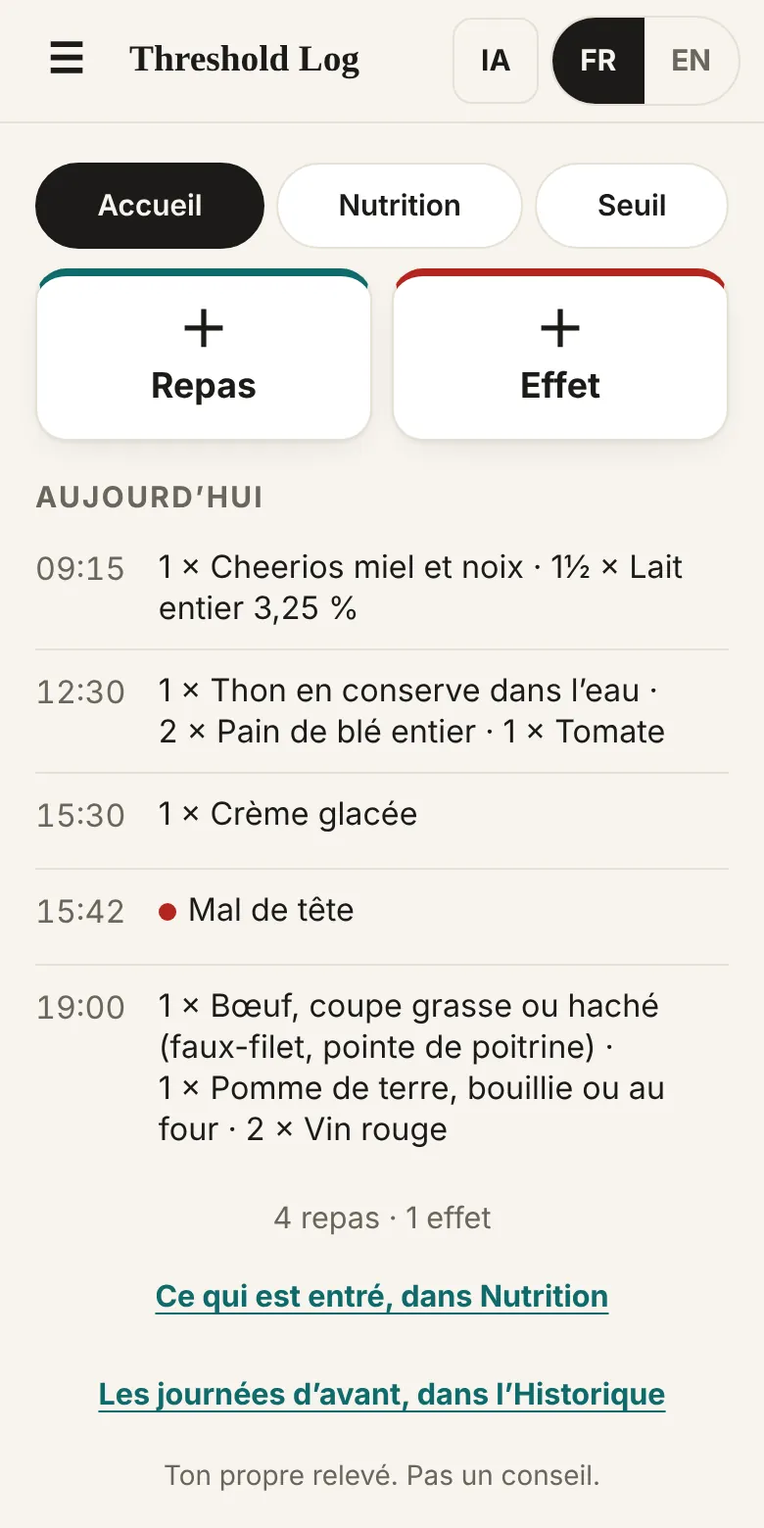
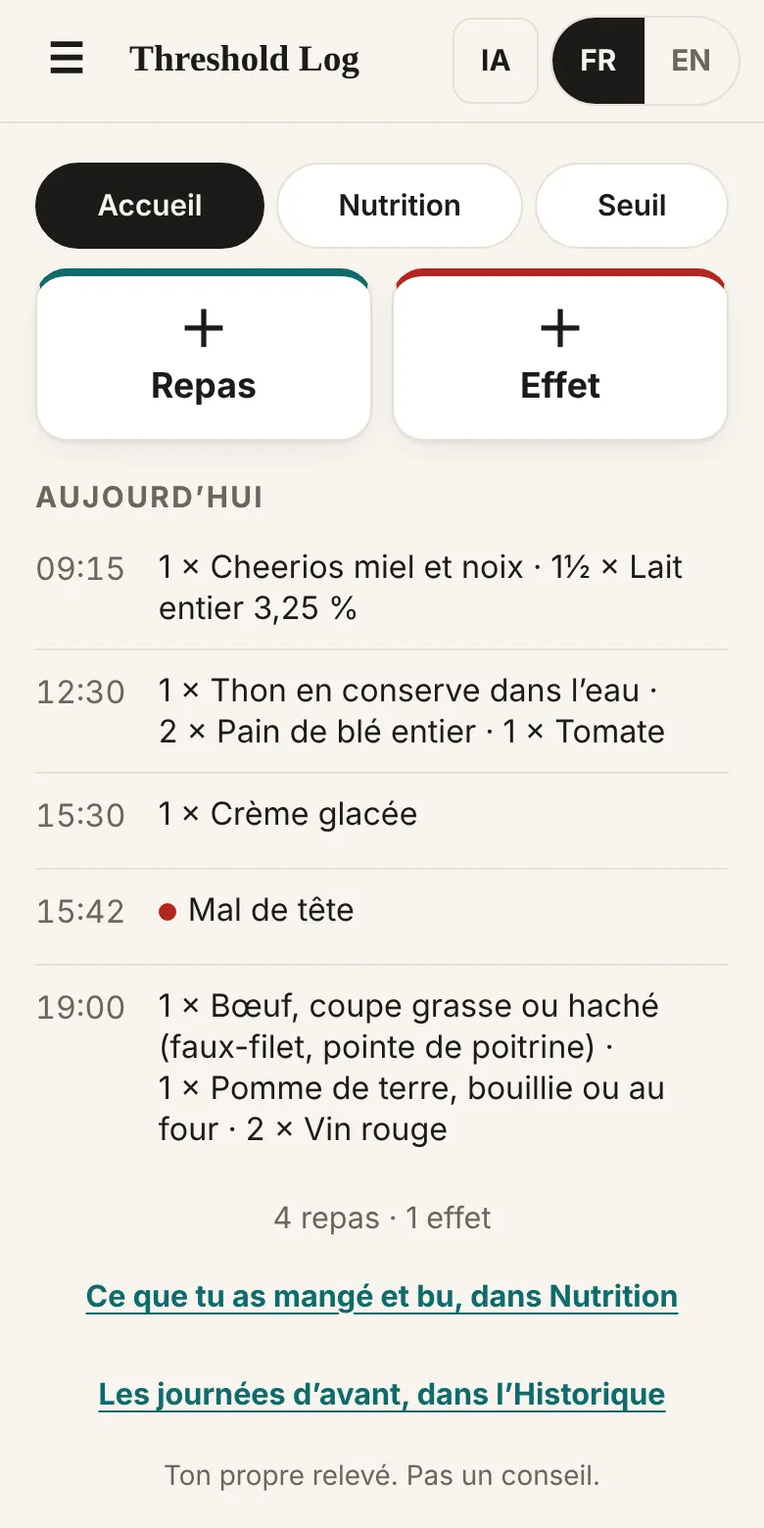
Threshold Log 0.3.6: French wording chosen by Tobie
- Bringing in the Food Trial Log's lists is « importer »: « Importe ta
  liste… », the button « Importer », « Importé le… », « Retirer ce qui
  a été importé ». The app's page says the same.
- A day the app counts is « une journée » wherever it is counted
  (« 3 journées laissées de côté », « noté 11 journées »), and what
  goes with it agrees. « Les 7 derniers jours » stays: that is the
  calendar.
- Home: « Hier : des repas notés, aucun effet négatif noté. » and
  « Ce que tu as mangé et bu, dans Nutrition ».
- « Des données seulement. » in place of « Des comptes seulement. »
- « pour l’instant » in place of a trailing « encore »: « Aucun repas
  noté pour l’instant. », « Rien de compté pour l’instant. »
- Front page, Sollum: « la chaîne d’événements qui a mené à chacun ».

« lit », « Pas un conseil » and « avant d’être rendu trop loin » stay.
No English changes. A check keeps each of these in place.

Claude-Session: https://claude.ai/code/session_0165oQGZXNu1ULEJPAkewgjN

Changed region(s): [[0.0923, 0.8308, 0.8923, 0.8615]]

diff --git a/threshold/app/index.html b/threshold/app/index.html
@@ -681,7 +681,7 @@ return {H,WIN,WINS,STEPS,BUCKETS,COMPS,FAMS,TAGS,line,table,together,waiting,SLI
 if(typeof module!=='undefined') module.exports=TLE;
 /* ENGINE:END */
 /* ===================== APP: the screens. Data in, data out: the app reports what was entered and never interprets it. ===================== */
-const VER='0.3.5', CONSENT=1, KEY='v3k.threshold.v1', GUTKEYS=['v3k.gut.v1','v3k.gut.fr.v1'];   /* the Food Trial Log keeps its English and its French copy apart */
+const VER='0.3.6', CONSENT=1, KEY='v3k.threshold.v1', GUTKEYS=['v3k.gut.v1','v3k.gut.fr.v1'];   /* the Food Trial Log keeps its English and its French copy apart */
 const E=TLE, H=36e5;
 const FRAMED=(()=>{ try{ return window.self!==window.top; }catch(e){ return true; } })();
 const STANDALONE=(()=>{ try{ return !!(navigator.standalone||matchMedia('(display-mode: standalone)').matches); }catch(e){ return false; } })();
@@ -821,12 +821,12 @@ function vHome(){ const I=IX(), T=today(), Y=kAdd(T,-1), d=I.D[T], dy=I.D[Y], ha
   const evs=S.ev.filter(e=>(e.k==='none'?e.d:E.dayKey(e.t,S.roll))===T), nm=evs.filter(e=>e.k==='meal').length, nf=evs.filter(e=>e.k==='fx').length, older=S.ev.length>evs.length;
   return `<div class="mainbtns"><button type="button" class="mb meal" data-act="meal"><span class="mi" aria-hidden="true">＋</span>${L('Meal','Repas')}</button><button type="button" class="mb fx" data-act="fx"><span class="mi" aria-hidden="true">＋</span>${L('Effect','Effet')}</button></div>
   ${hasFx?'':`<button type="button" class="lnk none" data-act="none" data-v="${T}" aria-pressed="${noneOn}">${noneOn?'✓ '+L('No effects today','Aucun effet aujourd’hui'):L('No effects today','Aucun effet aujourd’hui')}</button>`}
-  ${dy&&dy.meals.length&&!dy.closed?`<p class="small muted" style="text-align:center;margin:0 0 8px">${L('Yesterday has meals and no effect.','Hier a des repas et aucun effet.')} <button type="button" class="lnk" data-act="none" data-v="${Y}">${L('No effects yesterday','Aucun effet hier')}</button></p>`:''}
+  ${dy&&dy.meals.length&&!dy.closed?`<p class="small muted" style="text-align:center;margin:0 0 8px">${L('Yesterday has meals and no effect.','Hier : des repas notés, aucun effet négatif noté.')} <button type="button" class="lnk" data-act="none" data-v="${Y}">${L('No effects yesterday','Aucun effet hier')}</button></p>`:''}
   ${S.ev.length?'':`<div class="card soft"><p class="small" style="margin:0">${L('<b>How it works.</b> Report a meal when you eat. Report a negative effect when you have one. On a day with none, tap “No effects today”. A day with a meal and one of those is complete, and the lists count complete days.','<b>Comment ça marche.</b> Note un repas quand tu manges. Note un effet négatif quand tu en as un. Une journée sans effet, appuie sur «\u00a0Aucun effet aujourd’hui\u00a0». Une journée avec un repas et l’un des deux est complète, et les listes comptent les journées complètes.')}</p></div>`}
   <div class="eyebrow" style="margin:18px 0 0">${L('Today','Aujourd’hui')}</div>
   ${evs.length?`<ul class="tl" id="todayList">${evs.map(entryRow).join('')}</ul>`:`<p class="small muted" id="todayNone" style="margin:8px 0 0">${L('Nothing reported today yet.','Rien de noté aujourd’hui pour l’instant.')}</p>`}
   ${nm||nf?`<p class="small muted" id="todayCount" style="margin:14px 0 0;text-align:center">${L(`${nm} meal${nm===1?'':'s'} · ${nf} effect${nf===1?'':'s'}`,`${nm} repas · ${nf} effet${nf>1?'s':''}`)}</p>`:''}
-  ${nm?`<p style="margin:6px 0 0;text-align:center"><button type="button" class="lnk" data-act="tonut">${L('What went in, under Nutrition','Ce qui est entré, dans Nutrition')}</button></p>`:''}
+  ${nm?`<p style="margin:6px 0 0;text-align:center"><button type="button" class="lnk" data-act="tonut">${L('What went in, under Nutrition','Ce que tu as mangé et bu, dans Nutrition')}</button></p>`:''}
   ${older?`<p style="margin:6px 0 0;text-align:center"><button type="button" class="lnk" data-act="hist">${L('Earlier days, in History','Les journées d’avant, dans l’Historique')}</button></p>`:''}
   <p class="mine">${MINE()}</p>`; }
 
@@ -849,7 +849,7 @@ function pickKeys(){ if(V.q.trim()) return searchFoods(V.q);
 function mealRow(k){ const f=food(k), q=V.items[k]||0, sv=fserv(f), nm=`<div class="nm">${esc(fname(f))}${sv?`<small>${esc(sv)}</small>`:''}</div>`;
   return V.mode==='list'?`<div class="st${q?' on':''}" style="grid-template-columns:1fr auto">${nm}<button type="button" class="btn ${q?'':'ghost '}sm" data-act="mq" data-k="${esc(k)}" data-v="${q?-1:1}" aria-pressed="${!!q}">${q?'✓ '+L('On my list','Sur ma liste'):L('Add','Ajouter')}</button></div>`
     :`<div class="st${q?' on':''}">${nm}<button type="button" class="stp" data-act="mq" data-k="${esc(k)}" data-v="-0.5" aria-label="${L('Less','Moins')}: ${esc(fname(f))}" ${q?'':'disabled'}>−</button><span class="val" aria-live="polite">${q?qtxt(q):''}</span><button type="button" class="stp plus" data-act="mq" data-k="${esc(k)}" data-v="0.5" aria-label="${L('More','Plus')}: ${esc(fname(f))}">+</button></div>`; }
-function mealRows(){ return pickKeys().map(mealRow).join('')||`<p class="small muted">${V.q.trim()?L('No food by that name. You can add one from its label: Menu → Add a food from its label.','Aucun aliment à ce nom. Tu peux en ajouter un selon son étiquette\u00a0: Menu → Ajouter un aliment selon son étiquette.'):V.grp==='mine'?L('Your list is empty. Pick foods from the groups, or bring your list from the Food Trial Log (Nutrition tab).','Ta liste est vide. Choisis des aliments dans les groupes, ou amène ta liste du Food Trial Log (onglet Nutrition).'):L('Nothing here yet.','Rien ici pour l’instant.')}</p>`; }
+function mealRows(){ return pickKeys().map(mealRow).join('')||`<p class="small muted">${V.q.trim()?L('No food by that name. You can add one from its label: Menu → Add a food from its label.','Aucun aliment à ce nom. Tu peux en ajouter un selon son étiquette\u00a0: Menu → Ajouter un aliment selon son étiquette.'):V.grp==='mine'?L('Your list is empty. Pick foods from the groups, or bring your list from the Food Trial Log (Nutrition tab).','Ta liste est vide. Choisis des aliments dans les groupes, ou importe ta liste du Food Trial Log (onglet Nutrition).'):L('Nothing here yet.','Rien ici pour l’instant.')}</p>`; }
 function vMeal(){ const T=today(), Y=kAdd(T,-1), list=V.mode==='list', nsel=Object.keys(V.items).length, hasQ=!!V.q.trim();
   const tabs=[...(nsel&&!list?[['sel',L(`Picked · ${nsel}`,`Choisis · ${nsel}`)]]:[]),['mine',L('My list','Ma liste')],...(list?[]:[['recent',L('Recent','Récents')]]),...(S.custom.length?[['label',L('From a label','Selon l’étiquette')]]:[]),...GROUPS.map(([k,en,fr])=>[k,L(en,fr)])];
   const rm=!list&&!nsel&&!V.id?recentMeals():[];
@@ -907,7 +907,7 @@ function whyTxt(r){ const w=WHY[r.why]||WHY.stop; return L(w[0],w[1])+(r.times>1
 function gutPresent(){ for(const k of GUTKEYS){ try{ if(localStorage.getItem(k)) return true; }catch(e){} } return false; }
 function vNut(){ const I=IX(), per=S.nper, W=E.went(I,per), anyMeal=S.ev.some(e=>e.k==='meal'), fromList=!anyMeal&&S.list.length>0, has=fromList||W.days>0;
   const am=fromList?listAmounts():W.am, div=fromList?1:Math.max(1,W.days), ref=E.reference(S.p), p=S.p, tog=UI.tog||{};
-  const capn=fromList?L('No meal reported yet. This is your list at its usual amounts, once a day.','Aucun repas noté encore. Voici ta liste à ses quantités habituelles, une fois par jour.')
+  const capn=fromList?L('No meal reported yet. This is your list at its usual amounts, once a day.','Aucun repas noté pour l’instant. Voici ta liste à ses quantités habituelles, une fois par jour.')
     :per==='today'?L('Today, so far.','Aujourd’hui, jusqu’ici.')
     :W.days?L(`A day, on average: the ${W.days} day${W.days>1?'s':''} with a meal in the last ${PN[per]}.`,`Une journée, en moyenne\u00a0: ${W.days>1?`les ${W.days} jours`:'le jour'} avec un repas dans les ${PN[per]} derniers.`):'';
   /* portions that carry no numbers, and portions of label foods (a label doesn't list these vitamins and minerals) */
@@ -921,15 +921,15 @@ function vNut(){ const I=IX(), per=S.nper, W=E.went(I,per), anyMeal=S.ev.some(e=
   const listTxt=S.list.map(k=>esc(fname(food(k)))+((S.amt[k]||1)!==1?'\u00a0×\u00a0'+qtxt(S.amt[k]):'')).join(', ');
   let imp;
   if(S.imp){ const o=S.imp.out, a=S.imp.aside, C=o.length?E.common(o.map(r=>r.key),S.list,food):null;
-    imp=`<p class="small muted" style="margin:0 0 8px">${L('Brought in on','Amené le')} ${esc(dShort(S.imp.at))}${S.imp.from==='file'?L(', from its backup file',', à partir de son fichier de sauvegarde')+(S.imp.saved?L(' of ',' du ')+esc(dShort(S.imp.saved)):''):L(', from this phone',', à partir de ce téléphone')}.</p>
+    imp=`<p class="small muted" style="margin:0 0 8px">${L('Brought in on','Importé le')} ${esc(dShort(S.imp.at))}${S.imp.from==='file'?L(', from its backup file',', à partir de son fichier de sauvegarde')+(S.imp.saved?L(' of ',' du ')+esc(dShort(S.imp.saved)):''):L(', from this phone',', à partir de ce téléphone')}.</p>
     <h3>${L('Rejected','Rejetés')} · ${o.length}</h3>${o.length?`<ul class="evs">${o.map(r=>`<li><button type="button" class="lnk" data-act="foodrd" data-v="${esc(r.key)}">${esc(fname(food(r.key)))}</button><br><span class="small muted">${esc(dShort(r.d))} · ${whyTxt(r)}</span></li>`).join('')}</ul>`:`<p class="small muted">${L('No food failed a trial there.','Aucun aliment n’a échoué à un essai là-bas.')}</p>`}
     ${a.length?`<h3 style="margin-top:12px">${L('Set aside','Mis de côté')} · ${a.length}</h3><p class="small">${a.map(r=>esc(fname(food(r.key)))+' ('+whyTxt(r)+')').join(', ')}</p>`:''}
     ${C&&(C.rows.length||C.typ.length)?`<h3 style="margin-top:12px">${L('In common','En commun')}</h3>${C.rows.length?`<ul class="evs">${C.rows.map(r=>`<li>${L(BKN[r.b][0],BKN[r.b][1])}${COL()}${L(`${r.o} of the ${r.on} rejected · ${r.l} of the ${r.ln} on your list`,`${r.o} des ${r.on} rejetés · ${r.l} des ${r.ln} sur ta liste`)}</li>`).join('')}</ul>`:''}
       ${C.typ.length?`<table class="cov"><thead><tr><th scope="col" style="text-align:left">${L('One serving of the middle food','Une portion de l’aliment du milieu')}</th><th scope="col">${L('Rejected','Rejetés')}</th><th scope="col">${L('My list','Ma liste')}</th></tr></thead><tbody>${C.typ.map(t=>`<tr><th scope="row">${L(BARN[t.k][0],BARN[t.k][1])}, g</th><td>${num(t.o)}</td><td>${num(t.l)}</td></tr>`).join('')}</tbody></table><p class="small muted" style="margin:4px 0 0">${L('The middle food: half the foods hold more of it, half hold less.','L’aliment du milieu\u00a0: la moitié des aliments en contiennent plus, l’autre moitié moins.')}</p>`:''}
-      <p class="mine">${L('Counts only.','Des comptes seulement.')} ${MINE()}</p>`:''}
+      <p class="mine">${L('Counts only.','Des données seulement.')} ${MINE()}</p>`:''}
     <div class="row" style="margin-top:10px">${gutPresent()?`<button type="button" class="btn ghost sm" data-act="impread">${L('Read it again','Le relire')}</button>`:''}<button type="button" class="btn ghost sm" data-act="impfile">${L('Choose a backup file','Choisir un fichier de sauvegarde')}</button></div>
-    <button type="button" class="lnk" data-act="impdrop">${L('Remove what was brought in','Retirer ce qui a été amené')}</button>`; }
-  else imp=`<p class="small">${L('Bring in your list, the foods it rejected, and what those have in common. The Food Trial Log itself isn’t changed.','Amène ta liste, les aliments qu’il a rejetés, et ce qu’ils ont en commun. Le Food Trial Log lui-même n’est pas modifié.')}</p>
+    <button type="button" class="lnk" data-act="impdrop">${L('Remove what was brought in','Retirer ce qui a été importé')}</button>`; }
+  else imp=`<p class="small">${L('Bring in your list, the foods it rejected, and what those have in common. The Food Trial Log itself isn’t changed.','Importe ta liste, les aliments qu’il a rejetés, et ce qu’ils ont en commun. Le Food Trial Log lui-même n’est pas modifié.')}</p>
     <div class="row">${gutPresent()?`<button type="button" class="btn sm" data-act="impread">${L('Read it from this phone','Le lire sur ce téléphone')}</button>`:''}<button type="button" class="btn ghost sm" data-act="impfile">${L('Choose its backup file','Choisir son fichier de sauvegarde')}</button></div>
     <p class="small muted" style="margin:10px 0 0">${L('The file comes from the Food Trial Log: Menu → Back up my data → Download a file. On an iPhone, an installed app doesn’t see another app’s data, so the file is the way.','Le fichier vient du Food Trial Log\u00a0: Menu → Sauvegarder mes données → Télécharger un fichier. Sur un iPhone, une app installée ne voit pas les données d’une autre app, alors il faut passer par le fichier.')}</p>`;
   return `<div class="gtabs seg toptabs" role="group" aria-label="${L('Period','Période')}">${NPERS.map(([k,en,fr])=>`<button type="button" data-act="nper" data-v="${k}" aria-pressed="${per===k}">${L(en,fr)}</button>`).join('')}</div>
@@ -941,7 +941,7 @@ function vNut(){ const I=IX(), per=S.nper, W=E.went(I,per), anyMeal=S.ev.some(e=
     ${plus?`<p class="small muted">${L('+ You reported a pill or a food with no figure for this one, so the amount is that or more.','+ Tu as noté une pilule ou un aliment sans chiffre pour celui-ci, alors la quantité est celle-là ou plus.')}</p>`:''}
     <p class="small muted">${REFLINE()}</p>
     <details class="note" data-tog="np" ${tog.np?'open':''}><summary><span>${L('Reference shown for','Référence montrée pour')}${COL()}<b>${who}</b></span></summary>${seg('sex',[['m',L('Male','Homme')],['f',L('Female','Femme')],['hi',L('Either','Indifférent')]],sexNow)}${seg('age',AGES,ageNow)}<div class="gtabs" style="margin:4px 0 8px">${LIFE.map(([v,en,fr])=>`<button type="button" data-act="nlife" data-v="${v}" aria-pressed="${life.includes(v)}">${L(en,fr)}</button>`).join('')}</div></details></div>
-  <div class="card"><div class="eyebrow">${L('My list','Ma liste')} · ${S.list.length}</div>${S.list.length?`<p class="small">${listTxt}</p>`:`<p class="small muted">${L('The foods you eat as a rule. It starts empty: pick them, or bring them from the Food Trial Log.','Les aliments que tu manges d’habitude. Elle commence vide\u00a0: choisis-les, ou amène-les du Food Trial Log.')}</p>`}<button type="button" class="btn ghost sm" data-act="list">${S.list.length?L('Change my list','Modifier ma liste'):L('Pick my foods','Choisir mes aliments')}</button></div>
+  <div class="card"><div class="eyebrow">${L('My list','Ma liste')} · ${S.list.length}</div>${S.list.length?`<p class="small">${listTxt}</p>`:`<p class="small muted">${L('The foods you eat as a rule. It starts empty: pick them, or bring them from the Food Trial Log.','Les aliments que tu manges d’habitude. Elle commence vide\u00a0: choisis-les, ou importe-les du Food Trial Log.')}</p>`}<button type="button" class="btn ghost sm" data-act="list">${S.list.length?L('Change my list','Modifier ma liste'):L('Pick my foods','Choisir mes aliments')}</button></div>
   <div class="card"><div class="eyebrow">${L('From the Food Trial Log','Du Food Trial Log')}</div>${imp}<input type="file" id="impFile" accept="application/json,.json" class="vh" tabindex="-1" aria-hidden="true"></div>`; }
 
 /* ---------- the import ---------- */
@@ -953,11 +953,11 @@ function mapGut(R){ const mOf=k=>k[0]==='f'?MERGED[+k.slice(1)]:null, mk=k=>{ co
   return Object.assign({},R,{list,out:ded(R.out),aside:ded(R.aside),fine:[...new Set(R.fine.map(mk))]}); }
 function impPreview(o,from,saved){ const R0=E.importGut(o); if(!R0){ toast(L('That isn’t a Food Trial Log save','Ce n’est pas une sauvegarde du Food Trial Log')); return; }
   const R=mapGut(R0); UI.imp={R,from,saved:saved||null};
-  if(R.route!=='fast'){ showSheet(`<h3 id="sheetTitle">${L('Nothing to bring yet','Rien à amener encore')}</h3><p>${L('The Food Trial Log has a food list only on its fast route. This save isn’t on it.','Le Food Trial Log a une liste d’aliments seulement sur sa voie rapide. Cette sauvegarde n’y est pas.')}</p>`); return; }
+  if(R.route!=='fast'){ showSheet(`<h3 id="sheetTitle">${L('Nothing to bring yet','Rien à importer pour l’instant')}</h3><p>${L('The Food Trial Log has a food list only on its fast route. This save isn’t on it.','Le Food Trial Log a une liste d’aliments seulement sur sa voie rapide. Cette sauvegarde n’y est pas.')}</p>`); return; }
   const cur=S.list.length, same=cur===R.list.length&&R.list.every(x=>S.list.includes(x.key));
-  showSheet(`<h3 id="sheetTitle">${L('Bring these in?','Amener ceci?')}</h3><ul><li>${L('My list','Ma liste')}${COL()}${R.list.length} ${L(R.list.length===1?'food':'foods',R.list.length===1?'aliment':'aliments')}</li><li>${L('Rejected','Rejetés')}${COL()}${R.out.length}</li><li>${L('Set aside','Mis de côté')}${COL()}${R.aside.length}</li></ul>
+  showSheet(`<h3 id="sheetTitle">${L('Bring these in?','Importer ceci?')}</h3><ul><li>${L('My list','Ma liste')}${COL()}${R.list.length} ${L(R.list.length===1?'food':'foods',R.list.length===1?'aliment':'aliments')}</li><li>${L('Rejected','Rejetés')}${COL()}${R.out.length}</li><li>${L('Set aside','Mis de côté')}${COL()}${R.aside.length}</li></ul>
   ${cur&&!same?`<p class="small"><b>${L(`This replaces the ${cur} food${cur>1?'s':''} on your list now.`,`Ça remplace ${cur>1?`les ${cur} aliments`:'l’aliment'} sur ta liste en ce moment.`)}</b></p>`:''}
-  <p class="small muted">${L('The Food Trial Log isn’t changed, and its reports stay there.','Le Food Trial Log n’est pas modifié, et ses relevés restent là-bas.')}</p><button type="button" class="btn primary" data-act="impgo">${L('Bring them in','Les amener')}</button>`); }
+  <p class="small muted">${L('The Food Trial Log isn’t changed, and its reports stay there.','Le Food Trial Log n’est pas modifié, et ses relevés restent là-bas.')}</p><button type="button" class="btn primary" data-act="impgo">${L('Bring them in','Importer')}</button>`); }
 function impRead(){ const found=[]; for(const k of GUTKEYS){ try{ const r=localStorage.getItem(k); if(r){ const o=JSON.parse(r); if(o&&Array.isArray(o.ev)) found.push(o); } }catch(e){} }
   if(!found.length){ toast(L('No Food Trial Log data in this browser','Aucune donnée du Food Trial Log dans ce navigateur')); return; }
   const last=o=>o.ev.reduce((m,e)=>Math.max(m,+e.t||0),0); found.sort((a,b)=>last(b)-last(a)); impPreview(found[0],'phone'); }   /* English and French copies both there: the one used last */
@@ -968,7 +968,7 @@ function impFile(text){ let o; try{ o=JSON.parse(text); }catch(e){ o=null; }
 /* ---------- Threshold: the data view. Pick an effect; read what was eaten for the meals or days it was reported for, beside all the others.
    Nothing is averaged and nothing is coloured: a range is the lowest and the highest amount, and "2 of 9" is how many held any. ---------- */
 function rnum(x,w){ const d=w>=1?(Math.abs(w%1)>1e-9?1:0):(Math.round(w*100)%10?2:1); return (+x.toFixed(d)).toLocaleString(LOC(),{maximumFractionDigits:d}); }
-const unitWord=(mode,n)=>mode==='day'?L(n===1?'day':'days',n===1?'jour':'jours'):L(n===1?'meal':'meals','repas');
+const unitWord=(mode,n)=>mode==='day'?L(n===1?'day':'days',n===1?'journée':'journées'):L(n===1?'meal':'meals','repas');
 const leftWhy=b=>b==='fib'?L('a fibre supplement with no figure, or a food with no numbers','un supplément de fibres sans chiffre, ou un aliment sans chiffres'):b==='hist'?L('a histamine food with no figure, or a food with no numbers','un aliment à histamine sans chiffre, ou un aliment sans chiffres'):b==='cplx'||b==='sug'?L('carbs of a kind not listed, or a food with no numbers','des glucides de sorte non indiquée, ou un aliment sans chiffres'):L('a food with no numbers','un aliment sans chiffres');
 function stepCount(B,s){ return B.mode==='day'?L(`${s.n} ${unitWord('day',s.n)}, effects reported for ${s.k}`,`${s.n} ${unitWord('day',s.n)}, effets notés pour ${s.k}`):L(`${s.n} ${unitWord('meal',s.n)}, effects after ${s.k}`,`${s.n} repas, effets après ${s.k}`); }
 const leftWhy2=b=>b==='caf'?L('a caffeine pill with no figure, or a food with no numbers','une pilule de caféine sans chiffre, ou un aliment sans chiffres'):leftWhy(b);
@@ -986,7 +986,7 @@ function sideTxt(b,s){ if(!s.n) return '–'; if(isP(b)) return ofTxt(s.ate,s.n)
 function foodDays(I){ const n={}; for(const k of I.keys){ const seen=new Set(); for(const m of I.D[k].meals) for(const it of m.e.items) seen.add(it.key); for(const key of seen) n[key]=(n[key]||0)+1; } return n; }
 function tqRows(){ const q=(UI.tq||'').trim(), I=IX(), n=foodDays(I);
   if(!q){ const top=Object.entries(n).sort((a,b)=>b[1]-a[1]).slice(0,8); return top.length?`<div class="gtabs">${top.map(([k])=>`<button type="button" data-act="foodrd" data-v="${esc(k)}">${esc(fname(food(k)))}</button>`).join('')}</div>`:''; }
-  const keys=searchFoods(q,12); return keys.length?`<ul class="tl">${keys.map(k=>{ const f=food(k); return `<li><button type="button" class="tlr" style="grid-template-columns:1fr" data-act="foodrd" data-v="${esc(k)}"><span class="tx">${esc(fname(f))}<small>${esc(fserv(f))}${n[k]?' · '+L(`reported on ${n[k]} day${n[k]>1?'s':''}`,`noté ${n[k]} jour${n[k]>1?'s':''}`):''}</small></span></button></li>`; }).join('')}</ul>`:`<p class="small muted">${L('No food by that name.','Aucun aliment à ce nom.')}</p>`; }
+  const keys=searchFoods(q,12); return keys.length?`<ul class="tl">${keys.map(k=>{ const f=food(k); return `<li><button type="button" class="tlr" style="grid-template-columns:1fr" data-act="foodrd" data-v="${esc(k)}"><span class="tx">${esc(fname(f))}<small>${esc(fserv(f))}${n[k]?' · '+L(`reported on ${n[k]} day${n[k]>1?'s':''}`,`noté ${n[k]} journée${n[k]>1?'s':''}`):''}</small></span></button></li>`; }).join('')}</ul>`:`<p class="small muted">${L('No food by that name.','Aucun aliment à ce nom.')}</p>`; }
 /* the slider: how many hours after a meal an effect counts. It says nothing about how fast anything acts; the person moves it and reads. */
 const hrsWord=h=>L(h===1?'1 hour':h+' hours',h===1?'1 heure':h+' heures');
 const hrsAfter=h=>L(h===1?'the hour after it':`the ${h} hours after it`,h===1?'l’heure suivante':`les ${h} heures suivantes`);
@@ -1002,7 +1002,7 @@ function vThr(){ const I=IX(), mode=S.tmode, h=winH(), h1=h===1, hE=h1?'the hour
   const th=`<th scope="col">${L('With','Avec')}</th><th scope="col">${L('Without','Sans')}</th>`;
   /* a line with nothing counted on either side is not shown as two dashes: it is named under the lists, with what kept its meals or days out */
   const gone=T[0].rows.filter(r=>r.hit.n+r.rest.n===0&&r.left>0);
-  const goneHTML=gone.length?`<p class="small muted" id="thrGone" style="margin:0 0 8px">${L('Not in the list','Pas dans la liste')}${COL()}${gone.map(r=>L(BARN[r.b][0],BARN[r.b][1]).toLowerCase()).join(', ')}. ${L(`${gone[0].left} ${unitWord(mode,gone[0].left)} left out`,`${gone[0].left} ${unitWord(mode,gone[0].left)} laissé${gone[0].left>1?'s':''} de côté`)} (${leftWhy2(gone[0].b)}).</p>`:'';
+  const goneHTML=gone.length?`<p class="small muted" id="thrGone" style="margin:0 0 8px">${L('Not in the list','Pas dans la liste')}${COL()}${gone.map(r=>L(BARN[r.b][0],BARN[r.b][1]).toLowerCase()).join(', ')}. ${L(`${gone[0].left} ${unitWord(mode,gone[0].left)} left out`,`${gone[0].left} ${unitWord(mode,gone[0].left)} laissé${mode==='day'?'e':''}${gone[0].left>1?'s':''} de côté`)} (${leftWhy2(gone[0].b)}).</p>`:'';
   const fam=F=>{ const rows=F.rows.filter(r=>F.f==='base'?r.hit.n+r.rest.n>0:r.hit.ate+r.rest.ate>0); if(!rows.length) return '';
     return `<table class="cov rws" id="fam-${F.f}"><thead><tr><th scope="col" style="text-align:left">${L(FAMN[F.f][0],FAMN[F.f][1])}</th>${th}</tr></thead><tbody>${rows.map(r=>`<tr><th scope="row"><button type="button" class="rowb" data-act="rowsheet" data-k="${r.b}">${L(BARN[r.b][0],BARN[r.b][1])}</button></th><td>${sideTxt(r.b,r.hit)}</td><td>${sideTxt(r.b,r.rest)}</td></tr>`).join('')}</tbody></table>`; };
   const tog=G.three.hit+G.three.rest+G.both.hit+G.both.rest>0?`<table class="cov rws" id="fam-tog"><thead><tr><th scope="col" style="text-align:left">${L('Eaten together','Mangés ensemble')}</th>${th}</tr></thead><tbody>
@@ -1015,7 +1015,7 @@ function vThr(){ const I=IX(), mode=S.tmode, h=winH(), h1=h===1, hE=h1?'the hour
   ${n&&seen.length?`<div class="gtabs fxpick" role="group" aria-label="${L('Effects','Effets')}"><button type="button" data-act="tfx" data-v="" aria-pressed="${!sel.length}">${L('Any effect','Tout effet')}</button>${seen.map(c=>`<button type="button" data-act="tfx" data-v="${esc(c)}" aria-pressed="${sel.indexOf(c)>=0}">${esc(cap(fxLow(c)))}</button>`).join('')}</div>${sel.length>1?`<div class="gtabs seg toptabs modes" id="allAny" role="group" aria-label="${L('How the picked effects combine','Comment les effets choisis se combinent')}" style="margin:0 0 10px"><button type="button" data-act="tall" data-v="1" aria-pressed="${all}">${L('All of them together','Tous ensemble')}</button><button type="button" data-act="tall" data-v="0" aria-pressed="${!all}">${L('Any of them','N’importe lequel')}</button></div>`:''}`:''}
   <div class="card" id="thrCard">${n?`<p style="margin:0 0 4px" id="thrHead"><b>${esc(head)}</b></p>
   <p class="small muted" style="margin:0 0 4px">${L(`“With” is those ${nHit}. “Without” is the other ${nRest}. A range runs from the lowest amount to the highest. “2 of 9” is how many held any of it. The side with fewer ${mode==='day'?'days':'meals'} usually has the narrower range.`,`« Avec », ce sont ces ${nHit}. « Sans », ce sont les ${nRest} autres. Un intervalle va de la plus petite quantité à la plus grande. « 2 sur 9 », c’est combien en contenaient. Le côté qui compte le moins de ${mode==='day'?'jours':'repas'} a d’habitude l’intervalle le plus étroit.`)}</p>${waitHTML}${T.map(fam).join('')}${goneHTML}${tog}`
-    :wn.length?`<p style="margin:0 0 4px"><b>${L('Nothing counted yet.','Rien de compté encore.')}</b></p>${waitHTML}`:`<p class="small" style="margin:0 0 4px">${L('Nothing to show yet. The lists are made from complete days: a meal, and either an effect or a tap on “No effects today”.','Rien à montrer encore. Les listes sont faites à partir des journées complètes : un repas, et soit un effet, soit un appui sur « Aucun effet aujourd’hui ».')}</p>${waitHTML}`}
+    :wn.length?`<p style="margin:0 0 4px"><b>${L('Nothing counted yet.','Rien de compté pour l’instant.')}</b></p>${waitHTML}`:`<p class="small" style="margin:0 0 4px">${L('Nothing to show yet. The lists are made from complete days: a meal, and either an effect or a tap on “No effects today”.','Rien à montrer pour l’instant. Les listes sont faites à partir des journées complètes : un repas, et soit un effet, soit un appui sur « Aucun effet aujourd’hui ».')}</p>${waitHTML}`}
   <p class="mine">${n?L('Tap a line for every amount.','Appuie sur une ligne pour voir chaque quantité.')+' ':''}${MINE()}</p></div>
   <h3 style="margin-top:18px">${L('One food','Un aliment')}</h3>
   <div class="fsearch"><label class="vh" for="tQ">${L('Look up a food','Chercher un aliment')}</label><input type="search" id="tQ" class="sel" data-in="tq" value="${esc(UI.tq||'')}" placeholder="${L('Look up a food','Chercher un aliment')}" autocomplete="off"></div>
@@ -1040,8 +1040,8 @@ function rowSheet(keep){ const u=UI.rs, sel=selOf(), al=sel.length>1&&UI.tall!==
   ${N?`<p style="margin:0"><b>${esc(cap(selName(sel,al)))}${COL()}${K} ${L('of','sur')} ${N} ${uw(N)}</b></p>
   <table class="cov rws" id="rowSteps"><thead><tr><th scope="col" style="text-align:left">${L('Amount','Quantité')}</th><th scope="col">${L('With','Avec')}</th><th scope="col">${L('Without','Sans')}</th></tr></thead><tbody>${all.map(s=>`<tr><th scope="row"><button type="button" class="rowb" data-act="rstep" data-v="${s.i}" aria-pressed="${u.i===s.i}">${stepRange(B,s)}</button></th><td>${s.k}</td><td>${s.n-s.k}</td></tr>`).join('')}</tbody></table>
   ${more||`<p class="small muted" style="margin:0">${L('Tap an amount to see the foods it came from.','Appuie sur une quantité pour voir les aliments d’où elle vient.')}</p>`}${luckNote(B.mode)}`
-    :`<p class="small muted">${L('Nothing counted yet.','Rien de compté encore.')}</p>`}
-  ${B.left?`<p class="small muted" style="margin:10px 0 0">${L(`${B.left} ${uw(B.left)} left out`,`${B.left} ${uw(B.left)} laissé${B.left>1?'s':''} de côté`)}${COL()}${leftWhy2(u.b)}.</p>`:''}
+    :`<p class="small muted">${L('Nothing counted yet.','Rien de compté pour l’instant.')}</p>`}
+  ${B.left?`<p class="small muted" style="margin:10px 0 0">${L(`${B.left} ${uw(B.left)} left out`,`${B.left} ${uw(B.left)} laissé${B.mode==='day'?'e':''}${B.left>1?'s':''} de côté`)}${COL()}${leftWhy2(u.b)}.</p>`:''}
   ${INFO[u.b]?`<p style="margin:10px 0 0"><button type="button" class="lnk" data-act="comp" data-v="${u.b}">${L('What it is, and where the figure comes from','Ce que c’est, et d’où vient le chiffre')}</button></p>`:''}
   ${conclHTML(u.b)}`,keep); }
 
@@ -1076,7 +1076,7 @@ const INFO={
   glu:['A protein in wheat, barley and rye.','Une protéine du blé, de l’orge et du seigle.','Digested only in part.','Digéré en partie seulement.'].concat(FTLTAG),
   pur:['Counted here: foods at 200 mg of purines per 100 g or more, which are beef liver, chicken liver and sardines.','Comptés ici : les aliments à 200 mg de purines ou plus par 100 g, soit le foie de bœuf, le foie de poulet et les sardines.','Broken down to uric acid, which the kidneys pass out.','Décomposées en acide urique, que les reins éliminent.','Kaneko and others, Biol. Pharm. Bull. 2014;37(5):709.','Kaneko et coll., Biol. Pharm. Bull. 2014;37(5):709.']};
 const carried=(f,k)=>!!f&&!f.none&&(k==='hist'?!!f.h:k==='alc'?f.alc>0:!!(f.c&&f.c[k]));
-function compSheet(back){ const k=UI.cp, inf=INFO[k], I=IX(), n=foodDays(I), foods=Object.keys(n).filter(key=>carried(food(key),k)).sort((a,b)=>n[b]-n[a]).slice(0,8), dw=x=>L(x===1?'day':'days',x===1?'jour':'jours');
+function compSheet(back){ const k=UI.cp, inf=INFO[k], I=IX(), n=foodDays(I), foods=Object.keys(n).filter(key=>carried(food(key),k)).sort((a,b)=>n[b]-n[a]).slice(0,8), dw=x=>L(x===1?'day':'days',x===1?'journée':'journées');
   showSheet(`<h3 id="sheetTitle">${L(BARN[k][0],BARN[k][1])}</h3><p style="margin:0 0 8px">${L(inf[0],inf[1])}</p>
   ${k==='flav'?[2,6,10,14].map(i=>`<p class="small" style="margin:0 0 6px"><b>${L(inf[i],inf[i+1])}</b>${COL()}${L(inf[i+2],inf[i+3])}</p>`).join(''):`<p class="small" style="margin:0 0 6px"><b>${L('How the body clears it','Comment le corps l’élimine')}</b>${COL()}${L(inf[2],inf[3])}</p>
   <p class="small" style="margin:0 0 6px"><b>${L('Where the figure comes from','D’où vient le chiffre')}</b>${COL()}${L(inf[4],inf[5])}</p>`}
@@ -1101,13 +1101,13 @@ function holdsTxt(f){ if(!f||f.none) return L('This food has no numbers. A meal 
   if(f.h) P.push(f.hist!=null?'histamine ≈\u00a0'+U(f.hist,'mg',f.hist<1?2:1)+L(', estimated',', estimée'):L('a histamine food with no figure','un aliment à histamine sans chiffre'));
   return L('One serving holds','Une portion contient')+COL()+P.join(' · ')+'.'; }
 /* days with the food that are complete but not read yet: the day after them is not over */
-function foodWait(R){ const n=R.wait; return n?`<p class="small muted" id="foodWait" style="margin:6px 0 0">${L(`${n===1?'1 day with it isn’t':n+' days with it aren’t'} counted yet: a day is read once the day after it is over.`,`${n===1?'1 jour avec lui n’est pas encore compté':n+' jours avec lui ne sont pas encore comptés'} : une journée est lue quand le lendemain est terminé.`)}</p>`:''; }
+function foodWait(R){ const n=R.wait; return n?`<p class="small muted" id="foodWait" style="margin:6px 0 0">${L(`${n===1?'1 day with it isn’t':n+' days with it aren’t'} counted yet: a day is read once the day after it is over.`,`${n===1?'1 journée avec lui n’est pas encore comptée':n+' journées avec lui ne sont pas encore comptées'} : une journée est lue quand le lendemain est terminé.`)}</p>`:''; }
 function foodSheet(keep){ const u=UI.fr, key=u.key, f=food(key), I=IX(), R=E.foodReading(I,key,S.list.length?mine():null), sv=fserv(f);
   const o=S.imp&&S.imp.out.find(r=>r.key===key), as=S.imp&&S.imp.aside.find(r=>r.key===key);
   const rej=o?`<div class="card" style="border-color:var(--warn);margin:0 0 10px;padding:10px 14px;box-shadow:none"><p class="small" style="margin:0"><b>${L('Rejected in the Food Trial Log','Rejeté dans le Food Trial Log')}</b> · ${esc(dShort(o.d))} · ${whyTxt(o)}</p></div>`
     :as?`<div class="card" style="margin:0 0 10px;padding:10px 14px;box-shadow:none"><p class="small" style="margin:0"><b>${L('Set aside in the Food Trial Log','Mis de côté dans le Food Trial Log')}</b> · ${esc(dShort(as.d))} · ${whyTxt(as)}</p></div>`:'';
   const fxs=(obj,q)=>{ const ks=Object.entries(obj).sort((a,b)=>b[1]-a[1]||a[0].localeCompare(b[0])); return ks.length?ks.map(([c,n])=>`<button type="button" class="fxt" data-act="frfx" data-k="${q}" data-v="${esc(c)}">${esc(fxLow(c))}</button>\u00a0${n}`).join(' · '):'<span class="muted">–</span>'; };
-  const dw=n=>L(n===1?'day':'days',n===1?'jour':'jours');
+  const dw=n=>L(n===1?'day':'days',n===1?'journée':'journées');
   const rows=R.rows.map(r=>{ let luck='';
     if(u.c&&u.q===r.q&&r.any[u.c]!=null){ const wy=R.without.fx[u.c]||0; luck=`<p class="small" style="margin:6px 0 0"><b>${esc(cap(fxName(u.c)))}</b>${COL()}${L(`on ${r.any[u.c]} of ${r.n} ${dw(r.n)} at this amount`,`${r.any[u.c]} ${dw(r.any[u.c])} sur ${r.n} à cette quantité`)}${R.without.n?L(`, and on ${wy} of ${R.without.n} complete ${dw(R.without.n)} without it.`,`, et ${wy} sur ${R.without.n} ${R.without.n>1?'journées complètes':'journée complète'} sans cet aliment.`):'.'}</p>`; }
     return `<li><div class="q">${qtxt(r.q)}\u00a0×\u00a0${esc(sv||L('serving','portion'))} · ${r.n} ${dw(r.n)} · ${L(`effects reported for ${r.k}`,`effets notés pour ${r.k}`)}</div>
@@ -1128,7 +1128,7 @@ function vHist(){ const I=IX(), by={}; for(const e of S.ev){ const k=e.k==='none
   const keys=Object.keys(by).sort().reverse(), N=UI.histN||30, T=today();
   /* a day that was missed: a meal or an effect can be added to any day up to today */
   const addDay=`<div class="card" style="padding:10px 14px"><div class="row"><label class="small" for="hDay">${L('Add to a day','Ajouter à une journée')}</label><input type="date" id="hDay" class="sel" style="min-height:44px" data-in="hday" value="${esc(UI.hday||kAdd(T,-1))}" max="${T}"></div><div class="row" style="margin-top:8px"><button type="button" class="btn ghost sm" data-act="hmeal">+ ${L('Meal','Repas')}</button><button type="button" class="btn ghost sm" data-act="hfx">+ ${L('Effect','Effet')}</button></div></div>`;
-  if(!keys.length) return `<div class="eyebrow">${L('History','Historique')}</div>${addDay}<p class="muted">${L('Nothing reported yet.','Rien de noté encore.')}</p>`;
+  if(!keys.length) return `<div class="eyebrow">${L('History','Historique')}</div>${addDay}<p class="muted">${L('Nothing reported yet.','Rien de noté pour l’instant.')}</p>`;
   return `<div class="eyebrow">${L('History','Historique')}</div>${addDay}<p class="small muted">${L('Tap an entry to change or remove it.','Appuie sur une entrée pour la modifier ou la retirer.')}</p>`
     +keys.slice(0,N).map(k=>{ const d=I.D[k], open=d&&d.meals.length&&!d.closed, st=!d||!d.meals.length?L('no meal','aucun repas'):d.closed?L('complete','complète'):L('not complete','pas complète');
       return `<h3 style="margin:18px 0 0;font-size:1rem">${esc(dLabel(k))} <span class="muted" style="font-weight:400;font-family:system-ui,sans-serif;font-size:.85rem">· ${st}</span></h3>${open?`<button type="button" class="lnk" data-act="none" data-v="${k}">${L('No effects that day','Aucun effet ce jour-là')}</button>`:''}<ul class="tl">${by[k].slice().sort((a,b)=>b.t-a.t).map(entryRow).join('')}</ul>`; }).join('')
@@ -1170,7 +1170,7 @@ function aiText(scope){ const T=today(), from=scope==='month'?kAdd(T,-29):null, 
   if(S.imp&&S.imp.out.length) O.push(L('Rejected in my Food Trial Log: ','Rejetés dans mon Food Trial Log\u00a0: ')+S.imp.out.map(r=>`${fname(food(r.key))} (${r.d}, ${pl(whyTxt(r)).replace(/ · /g,', ')})`).join('; ')+'.');
   const cs=Object.entries(S.concl).filter(([k,v])=>v&&v.trim()); if(cs.length) O.push(L('My conclusions, in my own words: ','Mes conclusions, dans mes mots\u00a0: ')+cs.map(([k,v])=>(k.startsWith('food:')?fname(food(k.slice(5))):BARN[k]?L(BARN[k][0],BARN[k][1]):k)+COL()+L('"','«\u00a0')+v.trim()+L('"','\u00a0»')).join('; ')+'.');
   for(const mode of ['meal','day']){ O.push('',mode==='meal'?L(`TALLIES AFTER A MEAL (the amount in one meal; effects reported in ${hrsAfter(winH())}: my own setting, from 1 to 8 hours)`,`COMPTES APRÈS UN REPAS (la quantité dans un repas; effets notés dans ${hrsAfter(winH())} : mon propre réglage, de 1 à 8 heures)`):L('TALLIES OVER A DAY (the total for a day; effects reported that day, that night and the next day)','COMPTES SUR UNE JOURNÉE (le total d’une journée; effets notés ce jour-là, cette nuit-là et le lendemain)'));
-    for(const b of E.BUCKETS.concat(['alc','caf'])){ const B=E.bar(I,b,mode); O.push(L(BARN[b][0],BARN[b][1])+', '+BARN[b][2]); if(!B.n){ O.push('  '+L('nothing counted yet','rien de compté encore')); continue; }
+    for(const b of E.BUCKETS.concat(['alc','caf'])){ const B=E.bar(I,b,mode); O.push(L(BARN[b][0],BARN[b][1])+', '+BARN[b][2]); if(!B.n){ O.push('  '+L('nothing counted yet','rien de compté pour l’instant')); continue; }
       for(const s of [B.zero].concat(B.steps)){ if(!s.n) continue; const fx=Object.entries(s.fx).sort((a,c)=>c[1]-a[1]).map(([c,n])=>fxLow(c)+' '+n).join(', '); O.push('  '+pl(stepRange(B,s))+COL()+pl(stepCount(B,s))+(fx?' ('+fx+')':'')); }
       if(B.left) O.push('  '+L(`left out: ${B.left} (${leftWhy2(b)})`,`laissés de côté\u00a0: ${B.left} (${leftWhy2(b)})`)); } }
   O.push('',L('ENTRIES','ENTRÉES'));
@@ -1215,7 +1215,7 @@ function restoreSheet(){ showSheet(`<h3 id="sheetTitle">${L('Restore a backup','
   <label class="vh" for="restoreText">${L('Backup text','Texte de sauvegarde')}</label><textarea class="out" id="restoreText" placeholder="${L('…or paste it here','…ou colle-le ici')}" style="min-height:90px"></textarea>
   <div class="row" style="margin-top:10px"><button type="button" class="btn ghost sm" data-act="usetext">${L('Restore from the pasted text','Restaurer à partir du texte collé')}</button></div>`); }
 function parseBackup(text){ let o; try{ o=JSON.parse(text); }catch(e){ o=null; }
-  if(o&&o.app==='food-trial-log'){ toast(L('That is a Food Trial Log backup. Bring it in from the Nutrition tab.','C’est une sauvegarde du Food Trial Log. Amène-la à partir de l’onglet Nutrition.')); return; }
+  if(o&&o.app==='food-trial-log'){ toast(L('That is a Food Trial Log backup. Bring it in from the Nutrition tab.','C’est une sauvegarde du Food Trial Log. Importe-la à partir de l’onglet Nutrition.')); return; }
   if(!o||o.app!=='threshold-log'||!o.state||typeof o.state!=='object'||o.state.v!==1||!Array.isArray(o.state.ev)){ toast(L('That isn’t a Threshold Log backup','Ce n’est pas une sauvegarde du Threshold Log')); return; }
   UI.restore=o; showSheet(`<h3 id="sheetTitle">${L('Restore this backup?','Restaurer cette sauvegarde?')}</h3><p>${L(`It’s from ${esc(dShort(o.saved)||'an unknown date')}. Everything on this phone gets replaced by it.`,`Elle date du ${esc(dShort(o.saved)||'(date inconnue)')}. Tout ce qui est sur ce téléphone sera remplacé par elle.`)}</p><button type="button" class="btn primary sm" data-act="dorestore">${L('Replace everything','Tout remplacer')}</button>`); }
 function eraseAll(){ if(STORE==='bad') STORE='ok'; try{ localStorage.removeItem(KEY); }catch(e){} const lang=S.lang; S=S0(); S.lang=lang; UI={}; V=null; UNDO=null; closeSheet(); render(); toast(L('Erased','Effacé')); }
@@ -1336,7 +1336,7 @@ const ACT={
     S.imp={at:new Date().toISOString(),from:u.from,saved:u.saved,out:R.out,aside:R.aside,fine:R.fine};
     if(!S.p.sex&&(R.p.sex==='m'||R.p.sex==='f')) S.p.sex=R.p.sex; if(!S.p.age&&AGES.some(a=>a[0]===R.p.age)) S.p.age=R.p.age; if(!(S.p.life||[]).length) S.p.life=R.p.life.filter(v=>LIFE.some(x=>x[0]===v));
     if(!S.ev.length) S.roll=Math.min(23,Math.max(0,Math.round(+R.roll||0)));                               /* the day starts at the Food Trial Log's hour, unless entries already sit on this app's own hour */
-    UI.imp=null; closeSheet(); V=null; S.tab='nut'; render(); toast(L('Brought in','Amené')); },
+    UI.imp=null; closeSheet(); V=null; S.tab='nut'; render(); toast(L('Brought in','Importé')); },
   impdrop:b=>{ if(!b.dataset.sure){ b.dataset.sure='1'; b.textContent=L('Tap again to remove it. Your list stays.','Appuie encore pour le retirer. Ta liste reste.'); return; } S.imp=null; render(true); toast(L('Removed','Retiré')); },
   /* Ask AI */
   ai:()=>{ UI.ai={scope:'month'}; aiSheet(); }, aiscope:b=>{ UI.ai.scope=b.dataset.v; aiSheet(true); },

diff --git a/tests/threshold/screens.test.js b/tests/threshold/screens.test.js
@@ -378,7 +378,8 @@ async function open(browser, base, o) {
     // ================= French: corrections that must stay =================
     { const html = fs.readFileSync(path.join(ROOT, 'threshold/app/index.html'), 'utf8'), A = await open(browser, base, { lang: 'fr' }), page = A.page;
       await page.click('[data-act=enter]'); await page.waitForSelector('.mb.meal');
-      const gone = ['route rapide', 'écrit à la main', 'pour chaque quantité', 's’entre comme', 'mis en moyenne', 'Composés des plantes', 'composés des plantes', 'à côté d’un de ces aliments'].filter(w => html.includes(w));
+      const gone = ['route rapide', 'écrit à la main', 'pour chaque quantité', 's’entre comme', 'mis en moyenne', 'Composés des plantes', 'composés des plantes', 'à côté d’un de ces aliments',
+        'Amené', 'Amène', 'amène ta liste', 'amène-les', 'Les amener', 'Hier a des repas', 'Ce qui est entré', 'Des comptes seulement', 'noté encore', 'compté encore', 'montrer encore', 'amener encore', '\'jour\':\'jours\''].filter(w => html.includes(w));
       same('[french] wording that said something other than the English is gone', gone, []);
       await page.click('[data-act=menu]'); const items = await page.locator('#sheet button').allInnerTexts(), named = (html.match(/Menu → Restaurer[^.'`<]*?(?= ramène|\.)/g) || []).map(x => x.replace('Menu → ', ''));
       ok('[french] a message that sends to the menu names the menu item as the menu writes it', named.length >= 2 && named.every(n => items.some(t => t.trim() === n)), JSON.stringify([named, items]));
@@ -387,6 +388,8 @@ async function open(browser, base, o) {
       const want = { 1704: '1 moyenne', 1696: '1 moyenne', 1722: '1 moyenne', 1731: '1 moyenne', 2506: '1 moyenne', 2380: '1 moyenne', 2460: '1 moyenne', 2241: '1 moyenne', 2225: '½ moyenne', 4049: '1 grosse', 2501: '2 petites', 2185: '1 format moyen' };
       same('[french] the serving agrees with the food', await page.evaluate(ids => { const o = {}; for (const id of ids) o[id] = FB['f' + id].s[1]; return o; }, Object.keys(want).map(Number)), want);
       same('[french] and their English servings are as they were', await page.evaluate(() => [FB.f1704.s[0], FB.f4049.s[0], FB.f2501.s[0], FB.f2185.s[0]]), ['1 medium', '1 large', '2 small', '1 medium']);
+      same('[french] a day the app counts is « une journée », and what is left out agrees with it', await page.evaluate(() => [unitWord('day', 1), unitWord('day', 3), unitWord('meal', 3), /laissé\$\{mode==='day'\?'e':''\}/.test(vThr.toString()), /laissé\$\{B\.mode==='day'\?'e':''\}/.test(rowSheet.toString())]), ['journée', 'journées', 'repas', true, true]);
+      same('[french] bringing in the Food Trial Log’s lists is « importer »', await page.evaluate(() => { S.tab = 'nut'; render(); return [...document.querySelectorAll('#app p')].some(p => p.textContent.startsWith('Importe ta liste')); }), true);
       same('[french] no error', A.errors, []); await A.ctx.close(); }
 
     // ================= saved data that can't be read, a changed agreement, storage that is blocked =================

diff --git a/index.html b/index.html
@@ -295,7 +295,7 @@
     'patch.go': 'Ouvrir La Patch',
     'patch.intro': 'Lire d’abord la présentation',
     'sollum.q': 'Où commence mon cercle vicieux?',
-    'sollum.what': 'Dites à Sollum ce que vous voulez arrêter ou garder à l’œil. En deux minutes environ, touchez ce qui compte le plus : Demain ou Tout de suite, La famille ou Qu’on me laisse tranquille. Sollum apprend votre normale et, avec les incidents que vous notez, vous montre la chaîne qui a mené à chacun, un maillon à la fois, pour que vous puissiez essayer de briser le cercle avant d’être rendu trop loin.',
+    'sollum.what': 'Dites à Sollum ce que vous voulez arrêter ou garder à l’œil. En deux minutes environ, touchez ce qui compte le plus : Demain ou Tout de suite, La famille ou Qu’on me laisse tranquille. Sollum apprend votre normale et, avec les incidents que vous notez, vous montre la chaîne d’événements qui a mené à chacun, un maillon à la fois, pour que vous puissiez essayer de briser le cercle avant d’être rendu trop loin.',
     'sollum.go': 'Ouvrir Sollum',
     'v3ktor.q': 'À quoi est‑ce que je réagis, encore et encore?',
     'v3ktor.name': 'Instrument V3KTOR™.',

diff --git a/threshold/app/sw.js b/threshold/app/sw.js
@@ -1,7 +1,7 @@
 /* Threshold Log — offline cache. A new app version changes CACHE, so phones pick it up on the next open with a connection.
    Copyright (C) 2026  Tobie David · SPDX-License-Identifier: AGPL-3.0-or-later, with two terms under its section 7 (see the notice
    at the top of index.html) · https://github.com/tobiedavid/v3ktor.org */
-const CACHE='thresholdlog-0.3.5-07c0b7c8';
+const CACHE='thresholdlog-0.3.6-4a4ef18a';
 const SHELL=['./','index.html','manifest.webmanifest','icons/icon-192.png','icons/icon-512.png','icons/maskable-512.png','icons/apple-touch-icon.png','icons/favicon-32.png'];
 self.addEventListener('install',e=>{ e.waitUntil(caches.open(CACHE).then(c=>c.addAll(SHELL)).then(()=>self.skipWaiting())); });
 self.addEventListener('activate',e=>{ e.waitUntil(caches.keys().then(ks=>Promise.all(ks.filter(k=>k.startsWith('thresholdlog-')&&k!==CACHE).map(k=>caches.delete(k)))).then(()=>self.clients.claim())); });

diff --git a/threshold/index.html b/threshold/index.html
@@ -242,7 +242,7 @@ section{padding:42px 0;border-top:1px solid var(--line)}
     <div class="text">
       <p>Le <a href="../gut/fr/">Food Trial Log</a> trouve les aliments que ton ventre rejette. Il répond par oui ou par non, un aliment à la fois.</p>
       <p>Le Threshold Log regarde la quantité. Un aliment peut bien passer à une portion et pas à trois, et ce qu’un aliment contient compte&nbsp;: son gras, son lactose, ses fibres.</p>
-      <p>Si tu as utilisé le Food Trial Log, amène ta liste, les aliments qu’il a rejetés, et ce qu’ils ont en commun. Le Threshold Log fonctionne aussi sans lui.</p>
+      <p>Si tu as utilisé le Food Trial Log, importe ta liste, les aliments qu’il a rejetés, et ce qu’ils ont en commun. Le Threshold Log fonctionne aussi sans lui.</p>
     </div>
   </section>
 
